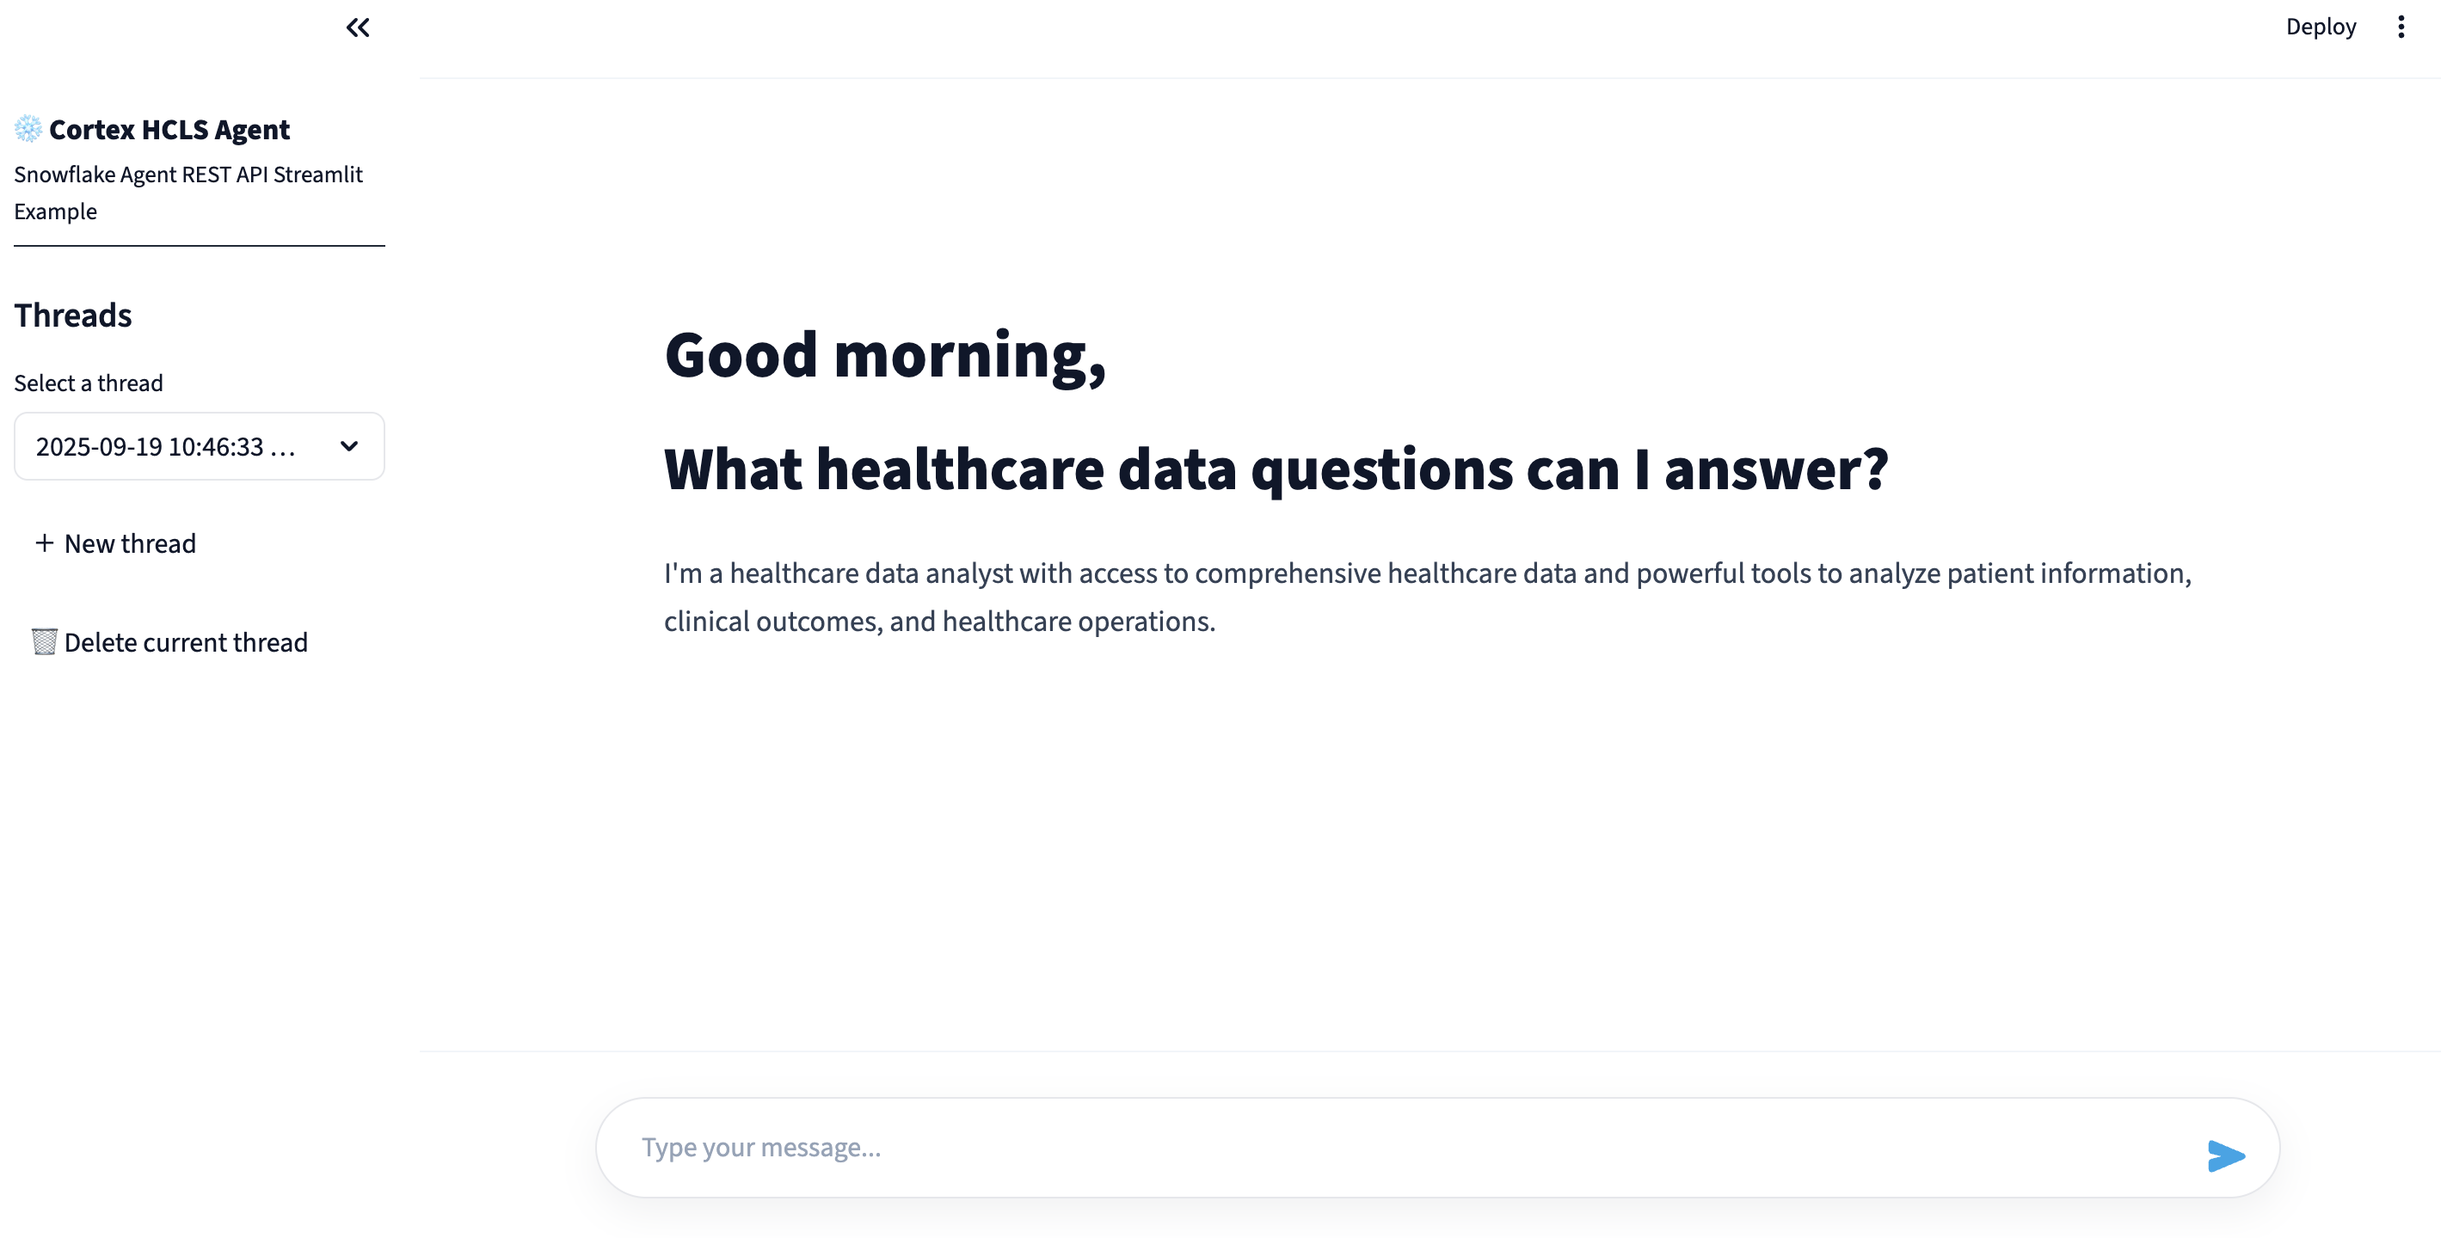
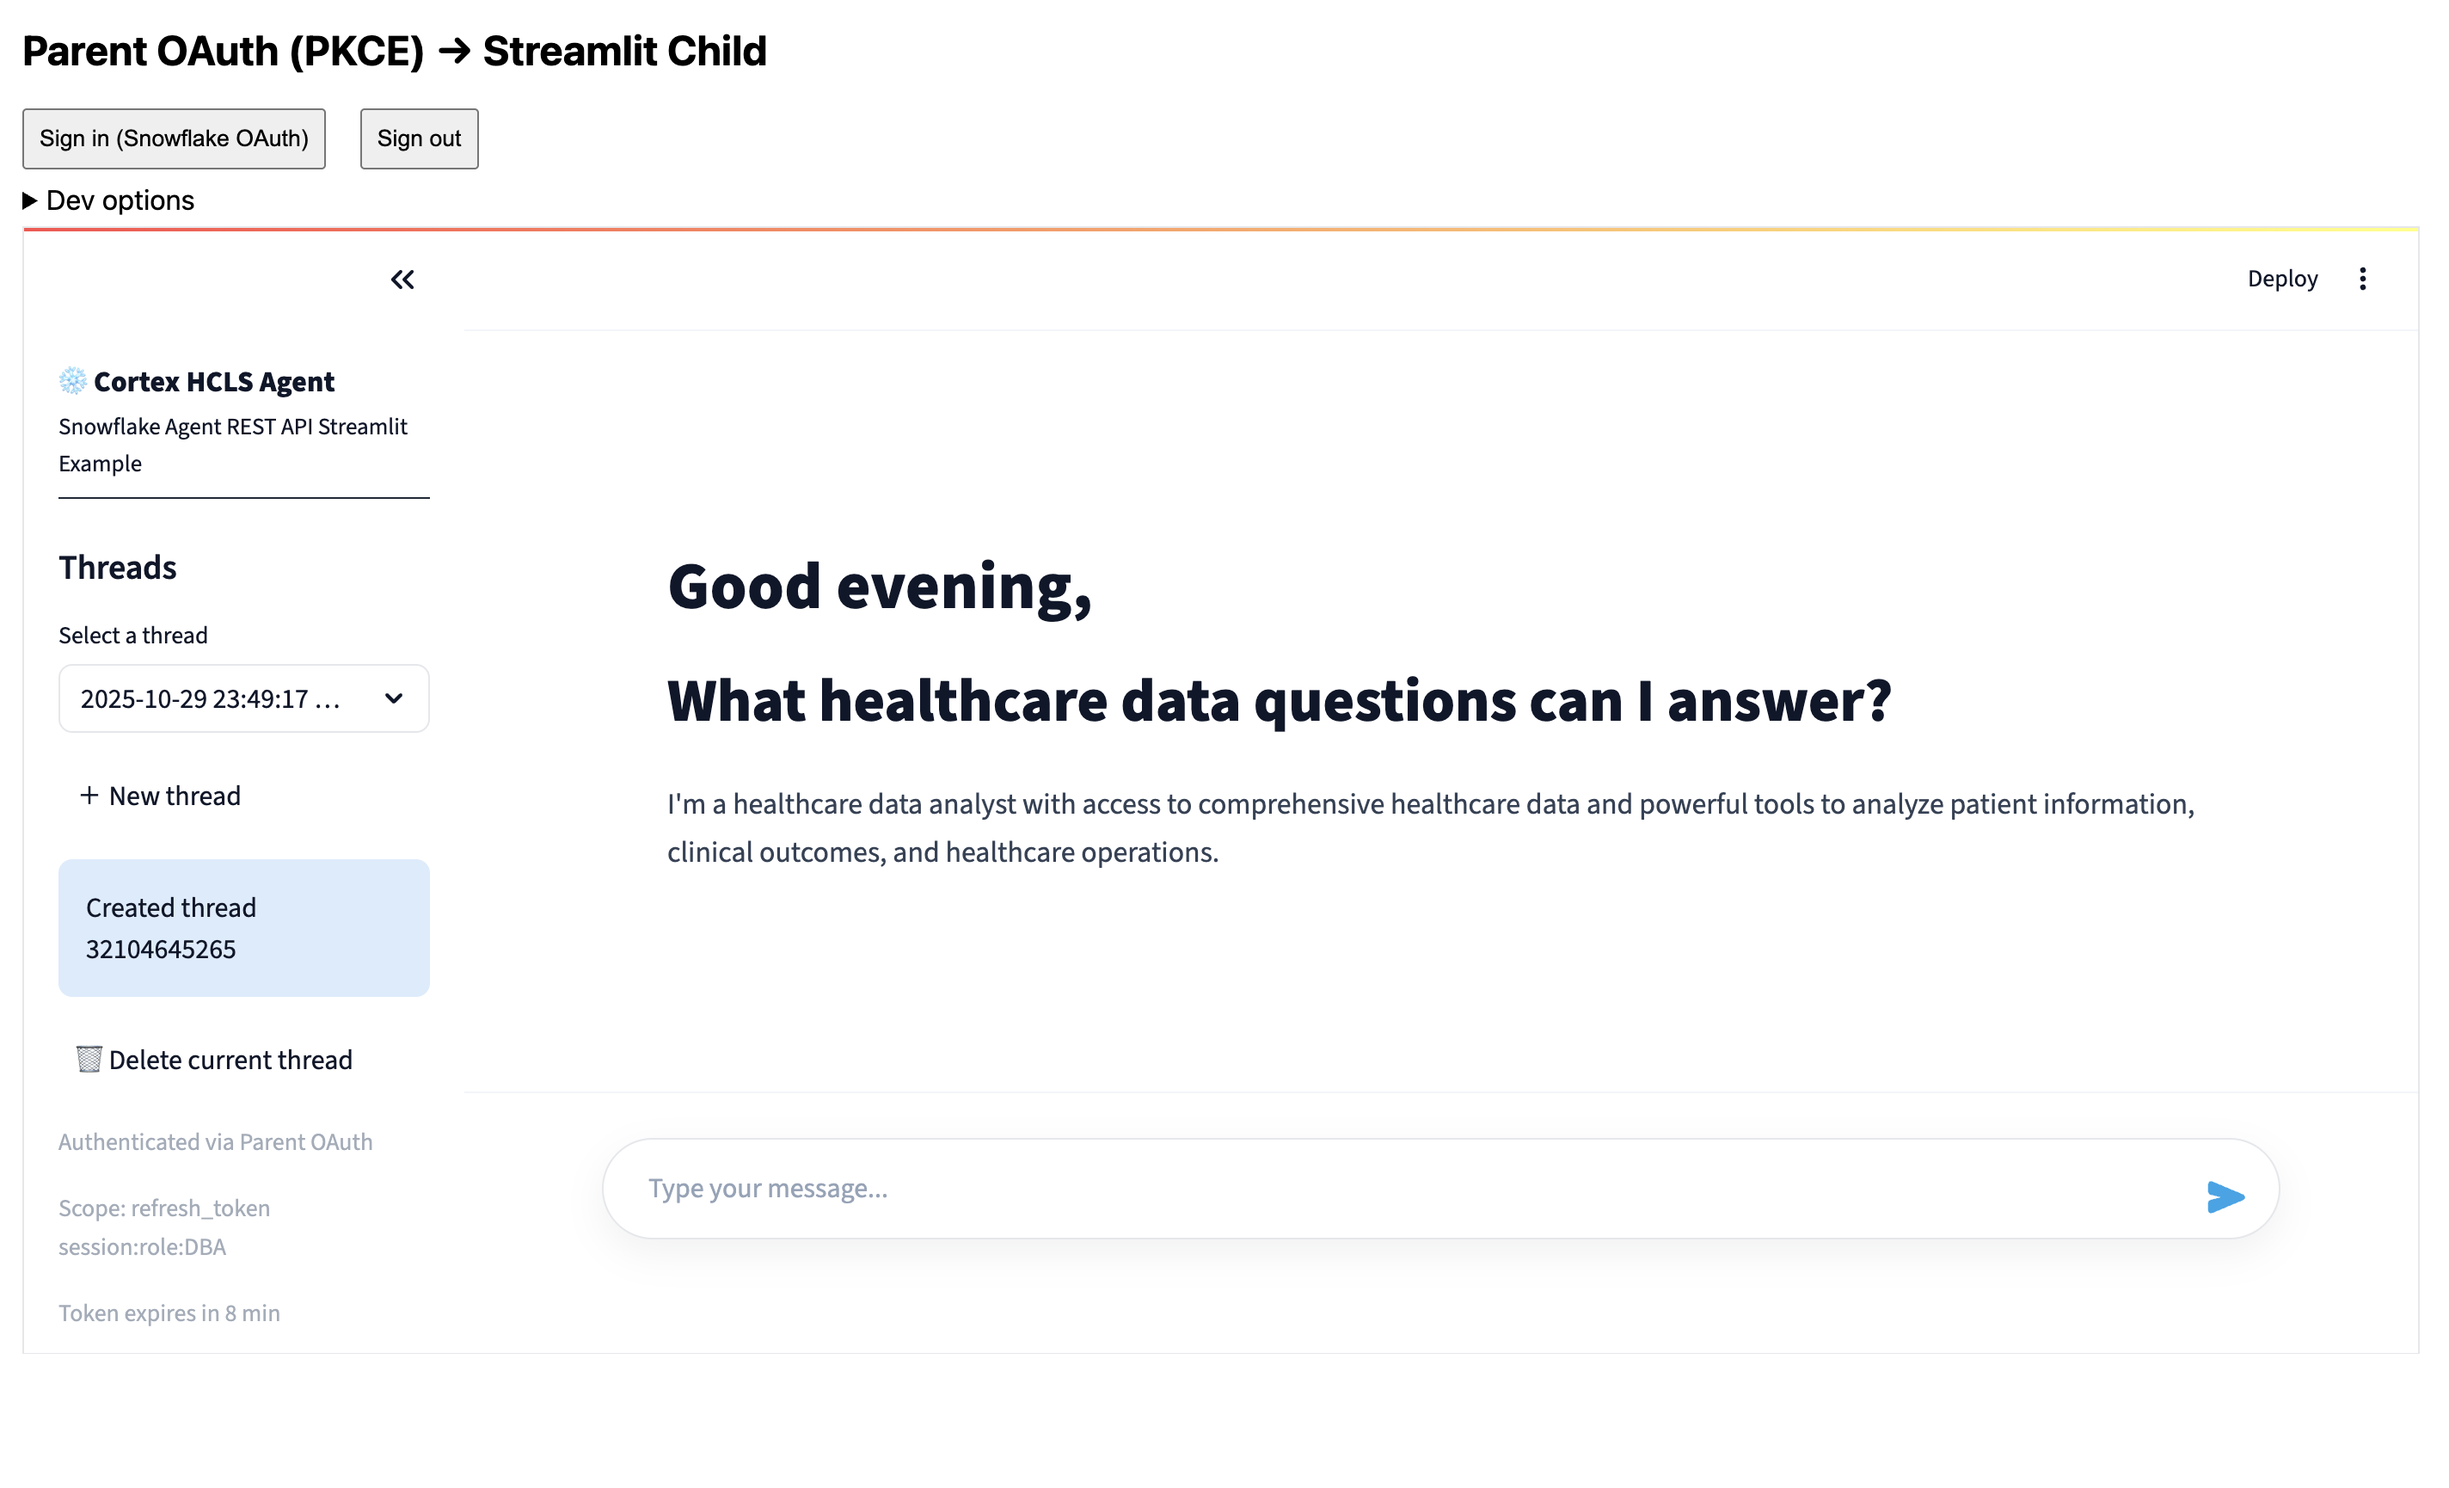
chore: finalize Track B (parent URL handoff, child refresh, docs)

diff --git a/parent/index.html b/parent/index.html
@@ -25,14 +25,12 @@
   <input id="childUrl" style="width:100%" value="http://localhost:8501/"/>
   <div style="font-size:12px; color:#64748b; margin-top:4px;">Only adjust for local testing.</div>
   <div style="height:8px"></div>
-  <button id="clearChild" style="margin-right:8px;">Clear child session (sign out)</button>
   <div style="height:8px"></div>
   <div id="devInfo" style="font-size:12px; color:#64748b; line-height:1.6;"></div>
 
 </details>
 
-<label>Status</label>
-<pre id="status"></pre>
+
 
 <iframe id="child" src="" sandbox="allow-scripts allow-same-origin allow-forms"></iframe>
 
@@ -60,7 +58,7 @@ function b64url(a){ return btoa(String.fromCharCode.apply(null,new Uint8Array(a)
 async function genVerifier(){ const arr = new Uint8Array(64); crypto.getRandomValues(arr); return Array.from(arr).map(x=>('0'+x.toString(16)).slice(-2)).join(''); }
 async function challengeFrom(v){ const enc=new TextEncoder().encode(v); const dig=await crypto.subtle.digest('SHA-256',enc); return b64url(dig); }
 
-function buildAuthorizeUrl(challenge){
+function buildAuthorizeUrl(challenge, extra){
   const url = new URL(cfg.accountUrl.replace(/\/$/, '') + '/oauth/authorize');
   url.searchParams.set('response_type','code');
   url.searchParams.set('client_id', cfg.clientId);
@@ -69,6 +67,9 @@ function buildAuthorizeUrl(challenge){
   url.searchParams.set('code_challenge', challenge);
   url.searchParams.set('code_challenge_method','S256');
   url.searchParams.set('state', crypto.randomUUID());
+  if (extra && typeof extra === 'object') {
+    Object.entries(extra).forEach(([k,v]) => { if (v != null) url.searchParams.set(k, String(v)); });
+  }
   return url.toString();
 }
 
@@ -82,19 +83,16 @@ document.getElementById('login').onclick = async ()=>{
   }catch(e){ status('Login error: '+e); }
 };
 
-document.getElementById('clearChild').onclick = ()=>{
+document.getElementById('signout').onclick = ()=>{
+  ls.del(KEYS.VERIFIER);
+  ls.del(KEYS.LAST_LOGIN);
   try{
     const base = document.getElementById('childUrl').value;
     const u = new URL(base);
     u.searchParams.set('p_signout','1');
     document.getElementById('child').src = u.toString();
-    status('Requested child to clear session');
   }catch(e){}
-};
-document.getElementById('signout').onclick = ()=>{
-  ls.del(KEYS.VERIFIER);
-  ls.del(KEYS.LAST_LOGIN);
-  status('Signed out in parent. To fully sign out, use "Clear child session".');
+  status('Signed out in parent and child.');
   document.getElementById('miniStatus').textContent = '';
 };
 
@@ -102,8 +100,23 @@ document.getElementById('signout').onclick = ()=>{
 (async function(){
   const u = new URL(window.location.href);
   const code = u.searchParams.get('code');
+  const err = u.searchParams.get('error');
   const savedCode = code || null;
   const savedVerifier = ls.get(KEYS.VERIFIER);
+
+  // If no code and we haven't tried silent auth yet, attempt prompt=none
+  if(!savedCode && !err){
+    try{
+      const tried = sessionStorage.getItem('silent_tried') === '1';
+      if(!tried){
+        sessionStorage.setItem('silent_tried','1');
+        const v = await genVerifier(); ls.set(KEYS.VERIFIER, v);
+        const cc = await challengeFrom(v);
+        window.location.assign(buildAuthorizeUrl(cc, { prompt: 'none' }));
+        return; // navigation
+      }
+    }catch(e){}
+  }
 
   // Initialize iframe first so messages are delivered to the right context
   const childUrl = document.getElementById('childUrl').value;
@@ -131,13 +144,16 @@ document.getElementById('signout').onclick = ()=>{
     // Clear code from parent URL for a clean state
     frame.addEventListener('load', () => setTimeout(sendCodeToChild, 50), { once: true });
     history.replaceState({}, document.title, '/parent/index.html');
+  } else if (err) {
+    // Clear any prompt=none error from URL
+    history.replaceState({}, document.title, '/parent/index.html');
+    status('Silent auth not available (interaction required).');
   }
 
   // No message listener or token refresh in parent; child handles refresh.
   // Populate Dev info panel
   try{
     const info = [];
-    info.push('Child origin: ' + (cfg.childOrigin || 'n/a'));
     const ts = ls.get(KEYS.LAST_LOGIN);
     if(ts){
       const mins = Math.floor((Date.now()-ts)/60000);
@@ -145,8 +161,6 @@ document.getElementById('signout').onclick = ()=>{
     } else {
       info.push('Last login: n/a');
     }
-    const v = ls.get(KEYS.VERIFIER);
-    info.push('Verifier present: ' + (v ? 'yes' : 'no'));
     document.getElementById('devInfo').textContent = info.join(' \n ');
   }catch(e){}
 })();

diff --git a/app.py b/app.py
@@ -523,6 +523,8 @@ def main() -> None:
                 # optional refresh storage
                 st.session_state.parent_refresh_token = tok.get("refresh_token")
                 st.session_state.oauth_client_id = pcid
+                if isinstance(tok.get("scope"), str):
+                    st.session_state.parent_scope = tok.get("scope")
                 # compute expires_at from expires_in
                 try:
                     exp = int(time.time()) + int(tok.get("expires_in", 3600))
@@ -563,6 +565,8 @@ def main() -> None:
                     st.session_state.parent_token_expires = int(time.time()) + int(tok.get("expires_in", 3600))
                 except Exception:
                     pass
+                if isinstance(tok.get("scope"), str):
+                    st.session_state.parent_scope = tok.get("scope")
                 st.rerun()
     except Exception:
         pass
@@ -582,6 +586,9 @@ def main() -> None:
     sidebar_threads(client, account_url)
     with st.sidebar:
         st.caption("Authenticated via Parent OAuth")
+        scope = st.session_state.get("parent_scope")
+        if isinstance(scope, str) and scope:
+            st.caption(f"Scope: {scope}")
         try:
             exp = st.session_state.get("parent_token_expires")
             if isinstance(exp, (int, float)):
